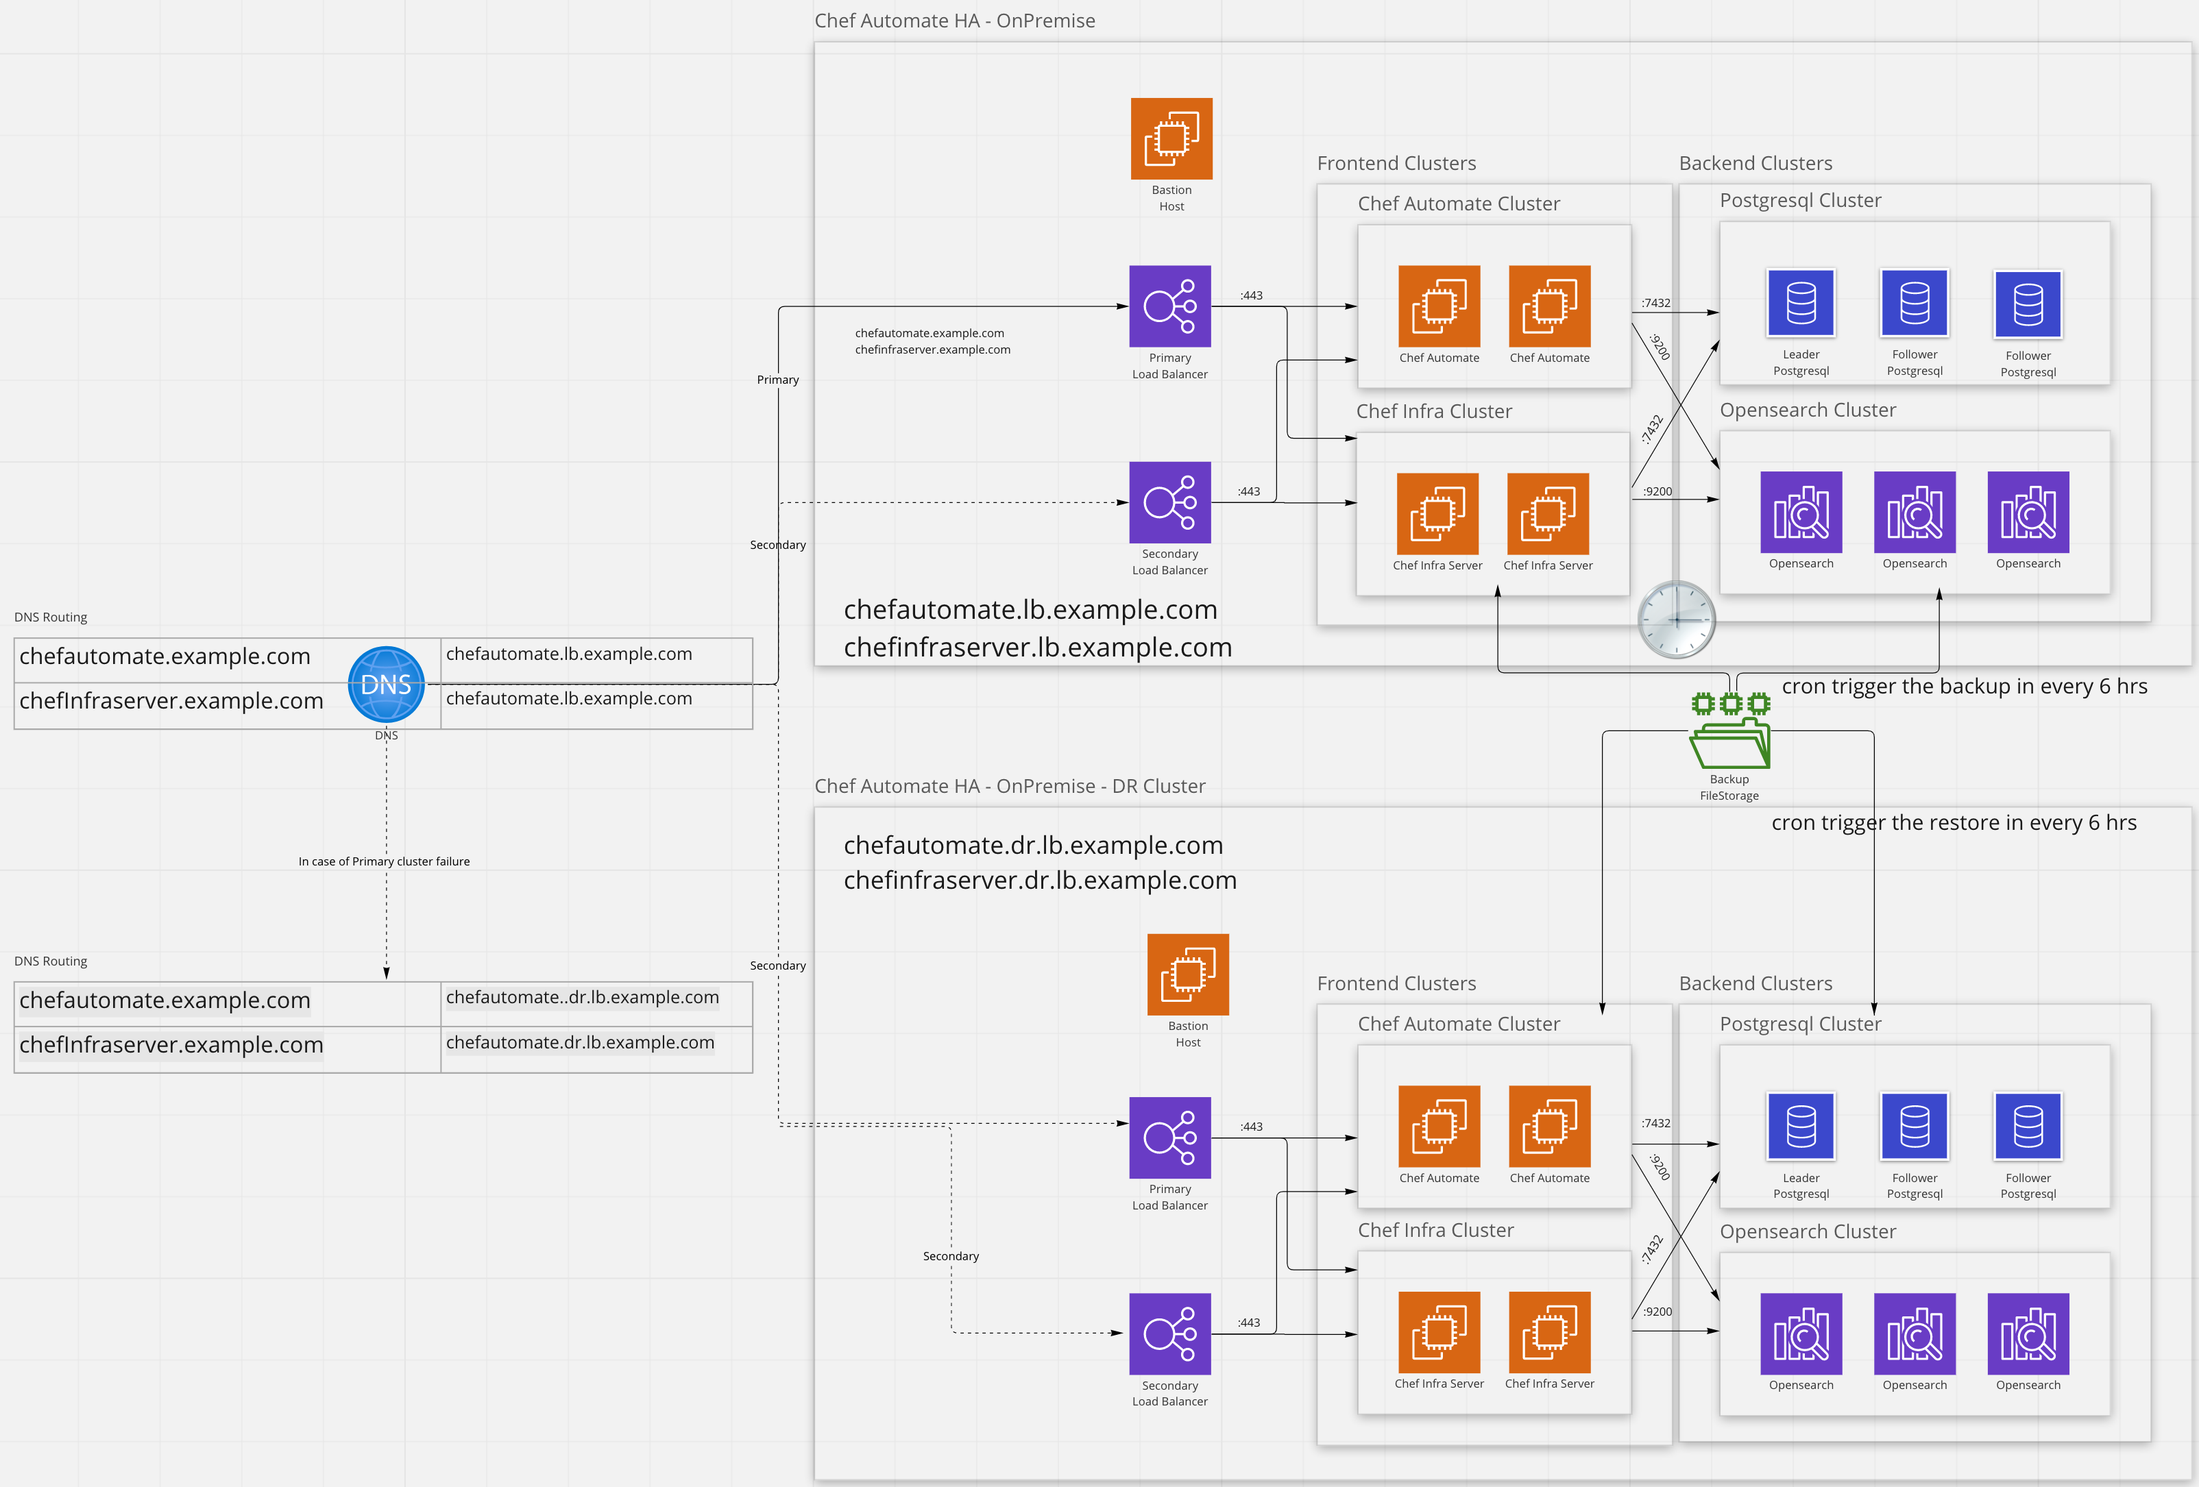
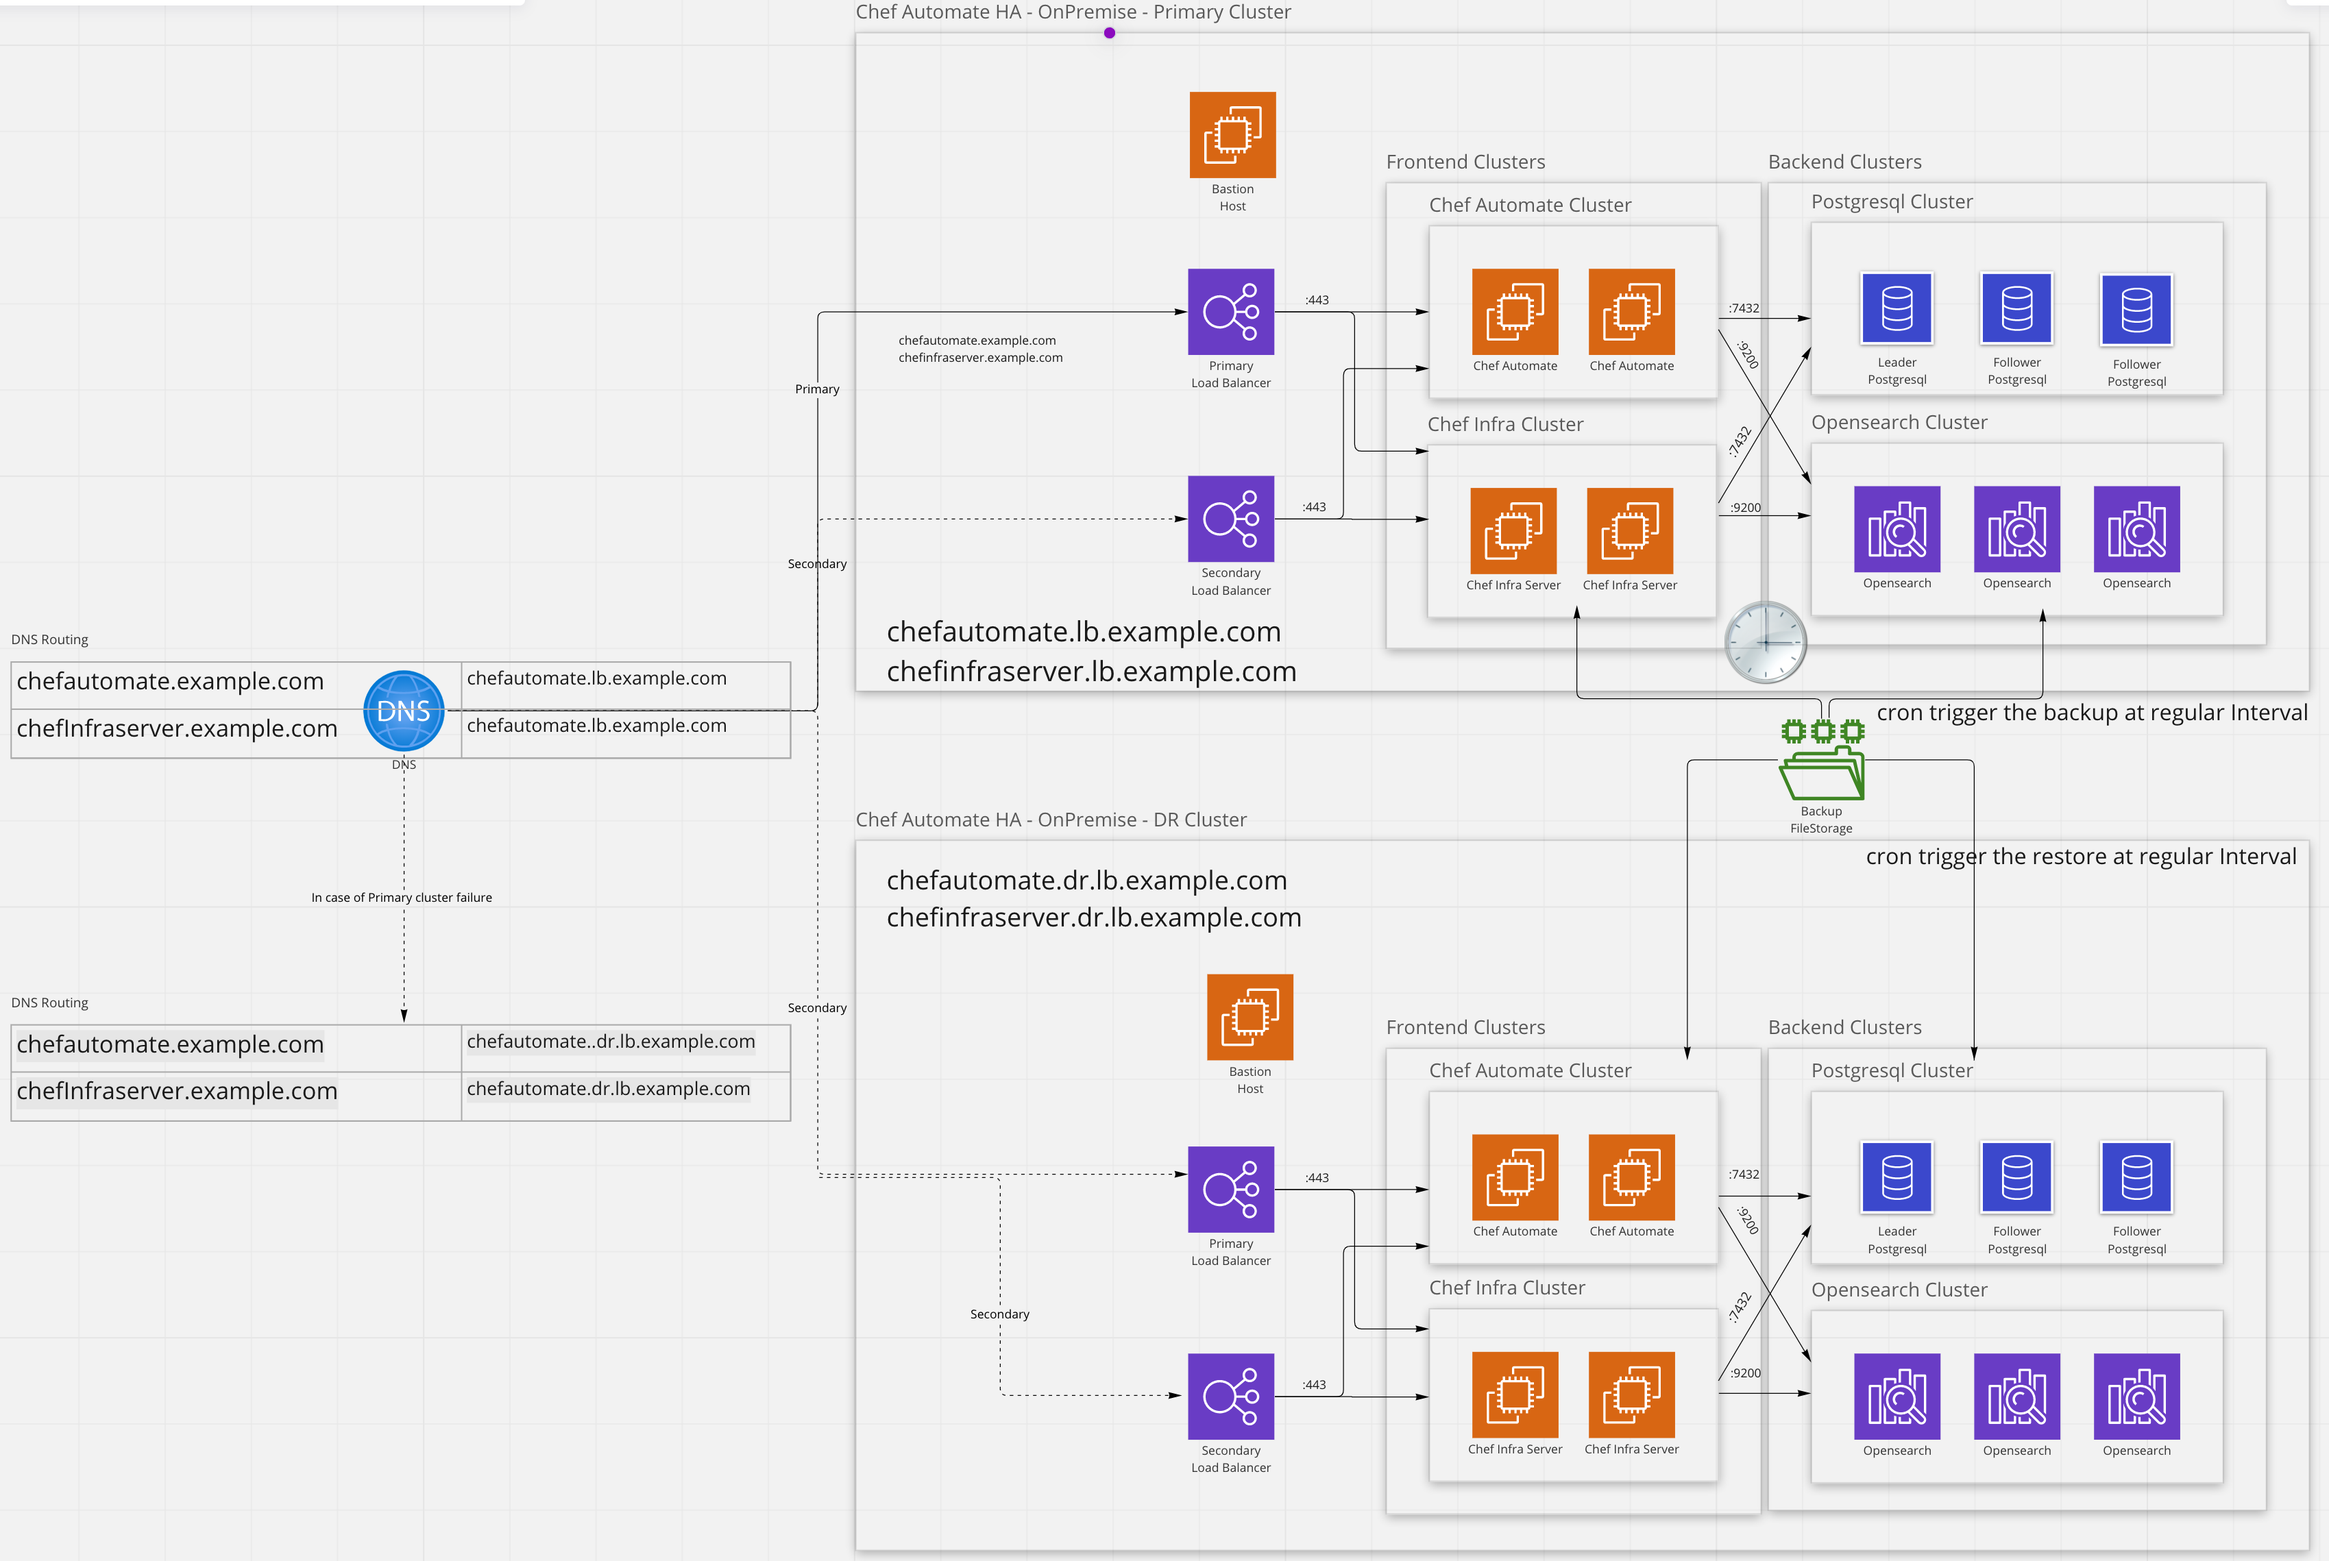
update the DR page

diff --git a/components/docs-chef-io/content/automate/DR.md b/components/docs-chef-io/content/automate/DR.md
@@ -16,86 +16,8 @@ gh_repo = "automate"
 
 If the Frequency of Data Sync between the Live System(Production cluster) and DR could be in the range of 6 to 24 hrs, then we have 2 option's which utilize the regular backup and restore cadence, that syncs data from the Production cluster to the DR cluster. Typically these two clusters are located in different data centres or cloud provider regions.
 
-### SetUp DR With Acceptable Down time for few hours
 
-In this approach we have a cluster running, which perform the `chef-automate backup` operation at regular interval. In case of failure scenario  we have to setup a new cluster (fresh [deployment](/automate/ha_onprim_deployment_procedure/#Run-these-steps-on-Bastion-Host-Machine)) and do the `chef-automate restore` operation in on the new cluster.
-
-#### Caveat with Above approach
-
-- Setup the new cluster will take couple of hours of time.
-- Restore operation will take good amount of time, based on the size of backed up data.
-- Chef-Automate HA cluster will not be available, hence no ingestion of data from any nodes.
-
-{{< note >}}
-
-- After the Deployment on Primary cluster, create bootstrap bundle and save it. Use below command to create the bootstrap bundle. Run the below command to one of the Automate node.
-
-```sh
-chef-automate bootstrap bundle create bootstrap.abb
-```
-
-{{< /note >}}
-
-#### Setup the  
-
-1. Please follow the fresh [deployment](/automate/ha_onprim_deployment_procedure/#Run-these-steps-on-Bastion-Host-Machine).
-
-2. Configure the backup at Automate HA cluster, in case if you have not configured, please refer this [Doc: Pre Backup Configuration for File System Backup](/automate/ha_backup_restore_prerequisites/#pre-backup-configuration-for-file-system-backup)
-
-3. From the Step 2, you will get the backup mount path.
-
-4. Stop all the services at frontend nodes in Automate HA Cluster.
-
-   - Run the below command to all the Automate and Chef Infra Server nodes
-
-    ``` bash
-    sudo chef-automate stop
-    ```
-
-5. To run the restore command we need the airgap bundle. Get the Automate HA airgap bundle from the location `/var/tmp/` in Automate instance. Example : `frontend-4.x.y.aib`.
-    - In case of airgap bundle is not present at `/var/tmp`, in that case we can copy the bundle from the bastion node to the Automate node. 
-
-6. Run the command at the Chef-Automate node of Automate HA cluster to get the applied config
-
-    ```bash
-    sudo chef-automate config show > current_config.toml 
-    ```
-
-7. Add the OpenSearch credentials to the applied config.
-
-    - If using Chef Managed Opensearch, then add the below config into `current_config.toml` (without any changes).
-
-        ```bash
-        [global.v1.external.opensearch.auth.basic_auth]
-            username = "admin"
-            password = "admin"
-        ```
-
-8. To restore the A2HA backup on Chef Automate HA, run the following command from any Chef Automate instance of the Chef Automate HA cluster:
-
-    ```cmd
-    sudo chef-automate backup restore /mnt/automate_backups/backups/20210622065515/ --patch-config current_config.toml --airgap-bundle /var/tmp/frontend-4.x.y.aib --skip-preflight
-    ```
-
-9. After the restore is successfully executed, you will see the below message:
-  
-    ```bash
-    Success: Restored backup 20210622065515
-    ```
-
-10. Copy the `bootstrap.abb` bundle to all the Frontend nodes of the Chef Automate HA cluster. Unpack the bundle using the below command on all the Frontend nodes.
-
-    ```cmd
-    sudo chef-automate bootstrap bundle unpack bootstrap.abb
-    ```
-
-11. Start the Service in all the frontend nodes with the below command.
-
-    ``` bash
-    sudo chef-automate start
-    ```
-
-### SetUp DR With Acceptable Down Time will be few minutes
+### Setup DR With Acceptable Down Time will be few minutes
 
 ![DR SetUp with 2 Parallel Cluster](/images/automate/DR-2-cluster.png)
 
@@ -104,17 +26,72 @@ In this approach we have to running 2 Parallel Cluster of same capacity.
 - Primary Cluster
 - DR Cluster
 
-Primary cluster will be in use and taking the backup at regular interval with `chef-automate backup` command. At the same time we will be restoring the backup at DR cluster via `chef-automate restore` command. In case of Failure, we will be change the DNS entry, DNS will point to the Load balancer of DR cluster.
+Primary cluster will be in use and taking the backup at regular interval with `chef-automate backup` command. At the same time we will be restoring the backup at DR cluster via `chef-automate restore` command.
+In case of Primary Cluster Failure, we will be change the DNS entry.
 
-#### Cavet with Above approach
+#### Caveat with Above approach
 
 - Setup two parallel cluster will be expensive.
 - Data available till last backup performed.
 
-#### Steps to Setup the Procution and DR Cluster
+#### Steps to Setup the Prodcution and DR Cluster
 
 1. Please follow the steps for fresh [deployment](/automate/ha_onprim_deployment_procedure/#Run-these-steps-on-Bastion-Host-Machine) for Production cluster.
 
-2. DR Cluster will be same as the Production cluster, we can use the above steps to setup the DR cluster. 
+2. DR Cluster will be same as the Production cluster, we can use the above steps to setup the DR cluster.
 
-3. 
+3. Do the backup configuration as explained in backup section. TBD.
+
+4. On Production Cluster
+    - One of the Chef Automate node, We configure the cron which trigger the `chef-automate backup` at certain interval.
+    - Create bootstrap bundle and save it. Use below command to create the bootstrap bundle. Run the below command to one of the Automate node.
+
+    ```sh
+    chef-automate bootstrap bundle create bootstrap.abb
+    ```
+
+    - Copy `bootstrap.abb` to all the of Frontend nodes of DR Cluster.
+
+5. On DR Cluster
+    - Install `bootstrap.abb` on all the Frontend nodes, as explain in below example
+
+        ```cmd
+            sudo chef-automate bootstrap bundle unpack bootstrap.abb
+        ```
+
+    - Stop all the services on all the Frontend node, as explain  below command.
+
+        ```sh
+            systemctl stop chef-automate
+        ```
+
+    - Make sure that both backup and restore cron are align.
+
+    - Configure the cron which trigger  the `chef-automate backup restore`  on one of the Chef Automate node.
+
+        - To run the restore command we need the airgap bundle. Get the Automate HA airgap bundle from the location `/var/tmp/` in Automate instance. Example : `frontend-4.x.y.aib`.
+
+        - In case of airgap bundle is not present at `/var/tmp`, in that case we can copy the bundle from the bastion node to the Automate node.
+
+        - Run the command at the Chef-Automate node of Automate HA cluster to get the applied config
+
+            ```bash
+            sudo chef-automate config show > current_config.toml 
+            ```
+
+        - Add the OpenSearch credentials to the applied config.
+
+            - If using Chef Managed Opensearch, then add the below config into `current_config.toml` (without any changes).
+
+                ```bash
+                [global.v1.external.opensearch.auth.basic_auth]
+                    username = "admin"
+                    password = "admin"
+                ```
+
+        - To restore backup on Chef Automate HA, below is the restore command, which can be from any Chef Automate instance of DR cluster:
+
+            ```cmd
+            sudo chef-automate backup restore /mnt/automate_backups/backups/20210622065515/ --patch-config current_config.toml --airgap-bundle /var/tmp/frontend-4.x.y.aib --skip-preflight
+            ```
+
